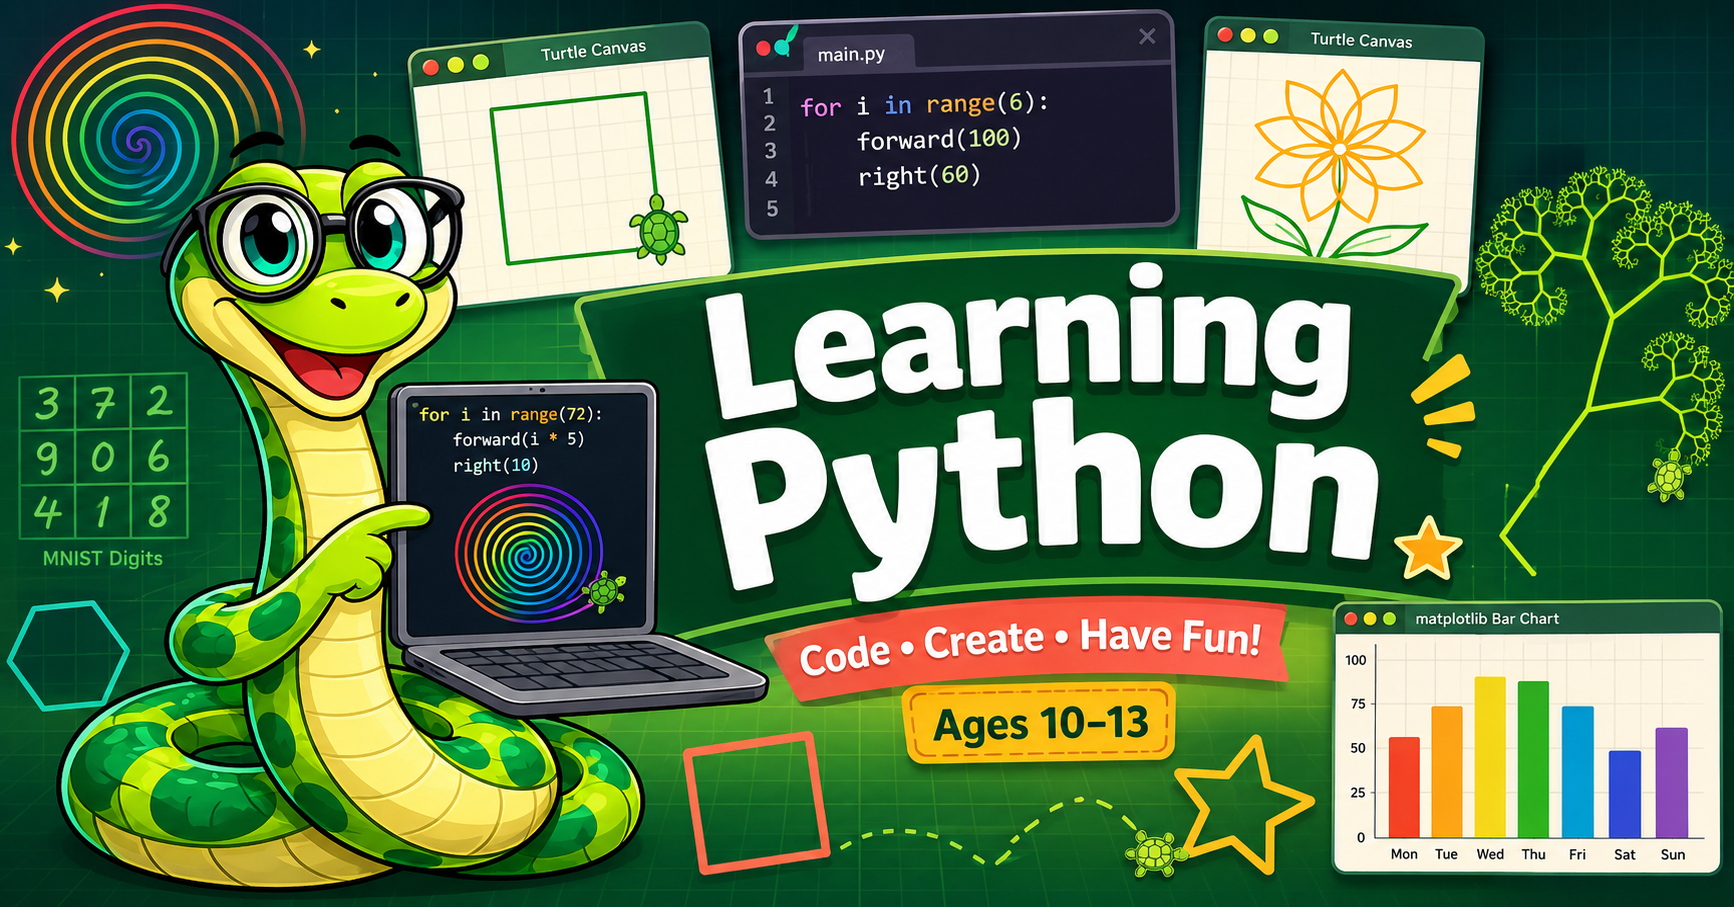
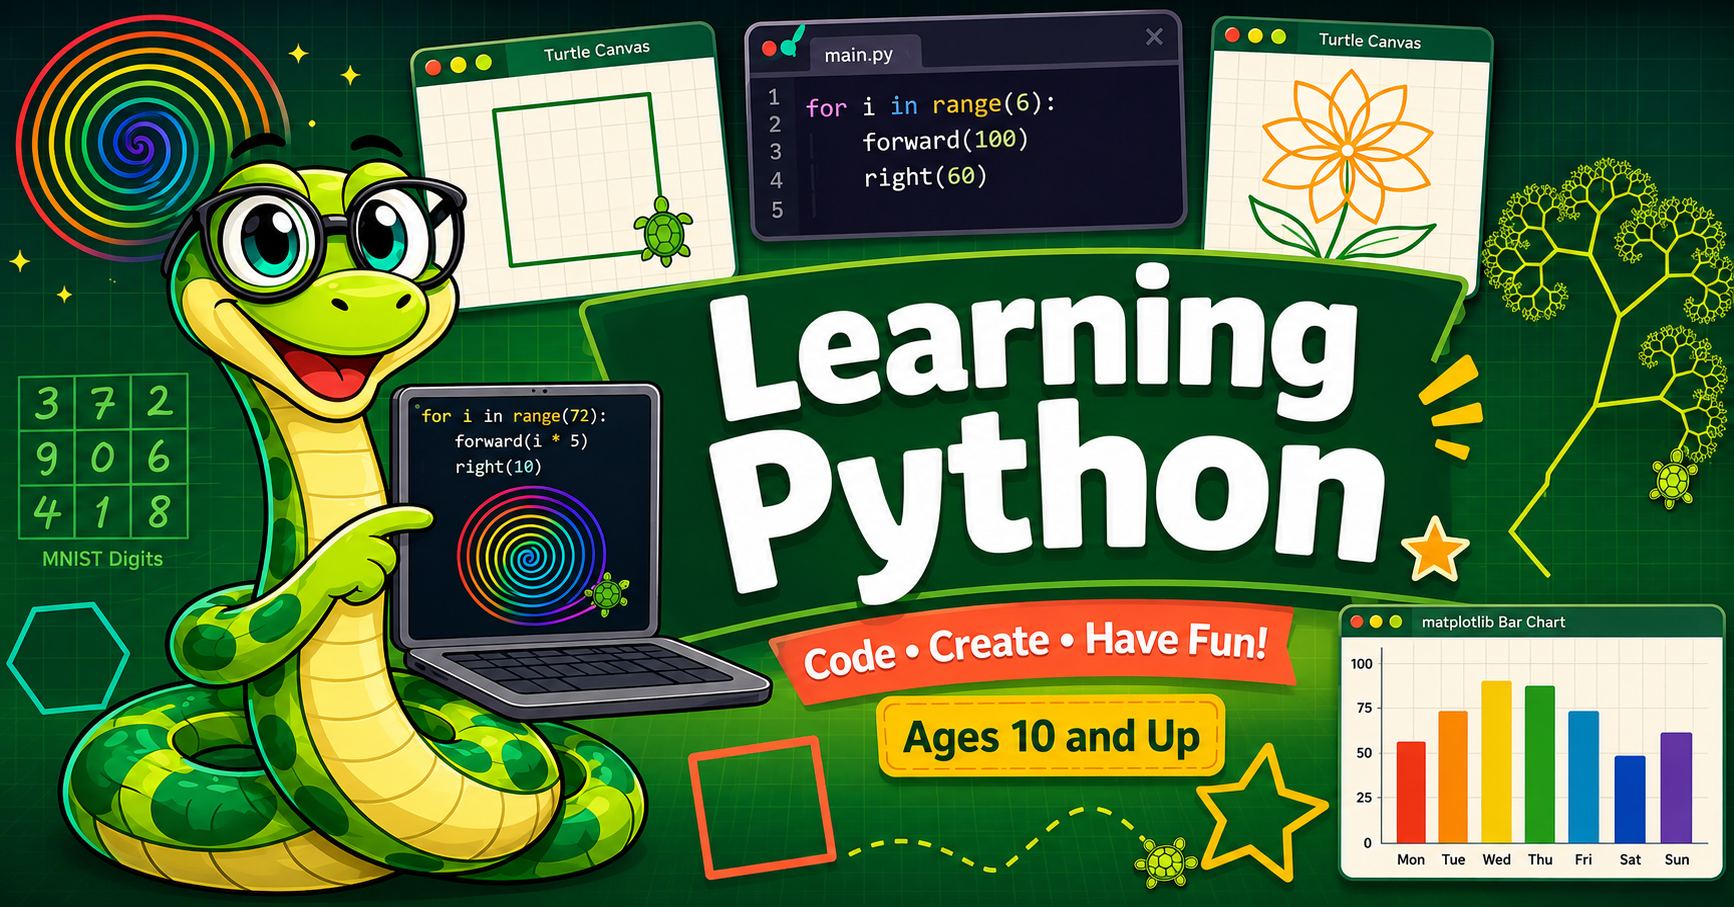
Change the cover to list 10 and Up

diff --git a/docs/img/cover-image-prompt.md b/docs/img/cover-image-prompt.md
@@ -4,7 +4,7 @@ Please generate a cover image for a "Learning Python" textbook that can be used 
 The image should follow the open graph image standards with a Wide landscape format  (1.91:1)
 format.
 
-A vibrant, friendly textbook cover illustration for a children's coding book titled "Learning Python", designed for ages 10–13. , suitable for a web book cover and social media preview card.
+A vibrant, friendly textbook cover illustration for a children's coding book titled "Learning Python", designed for "Ages 10 and Up", suitable for a web book cover and social media preview card.
 
 Left side: A cheerful cartoon green python snake named Monty sits center-left, wearing round reading glasses, looking curious and excited. Monty has a friendly, approachable expression — not scary at all. He is holding or pointing at a laptop or tablet screen that shows a simple Python for loop drawing a colorful spiral.  Use the attached image in this prompt.
 